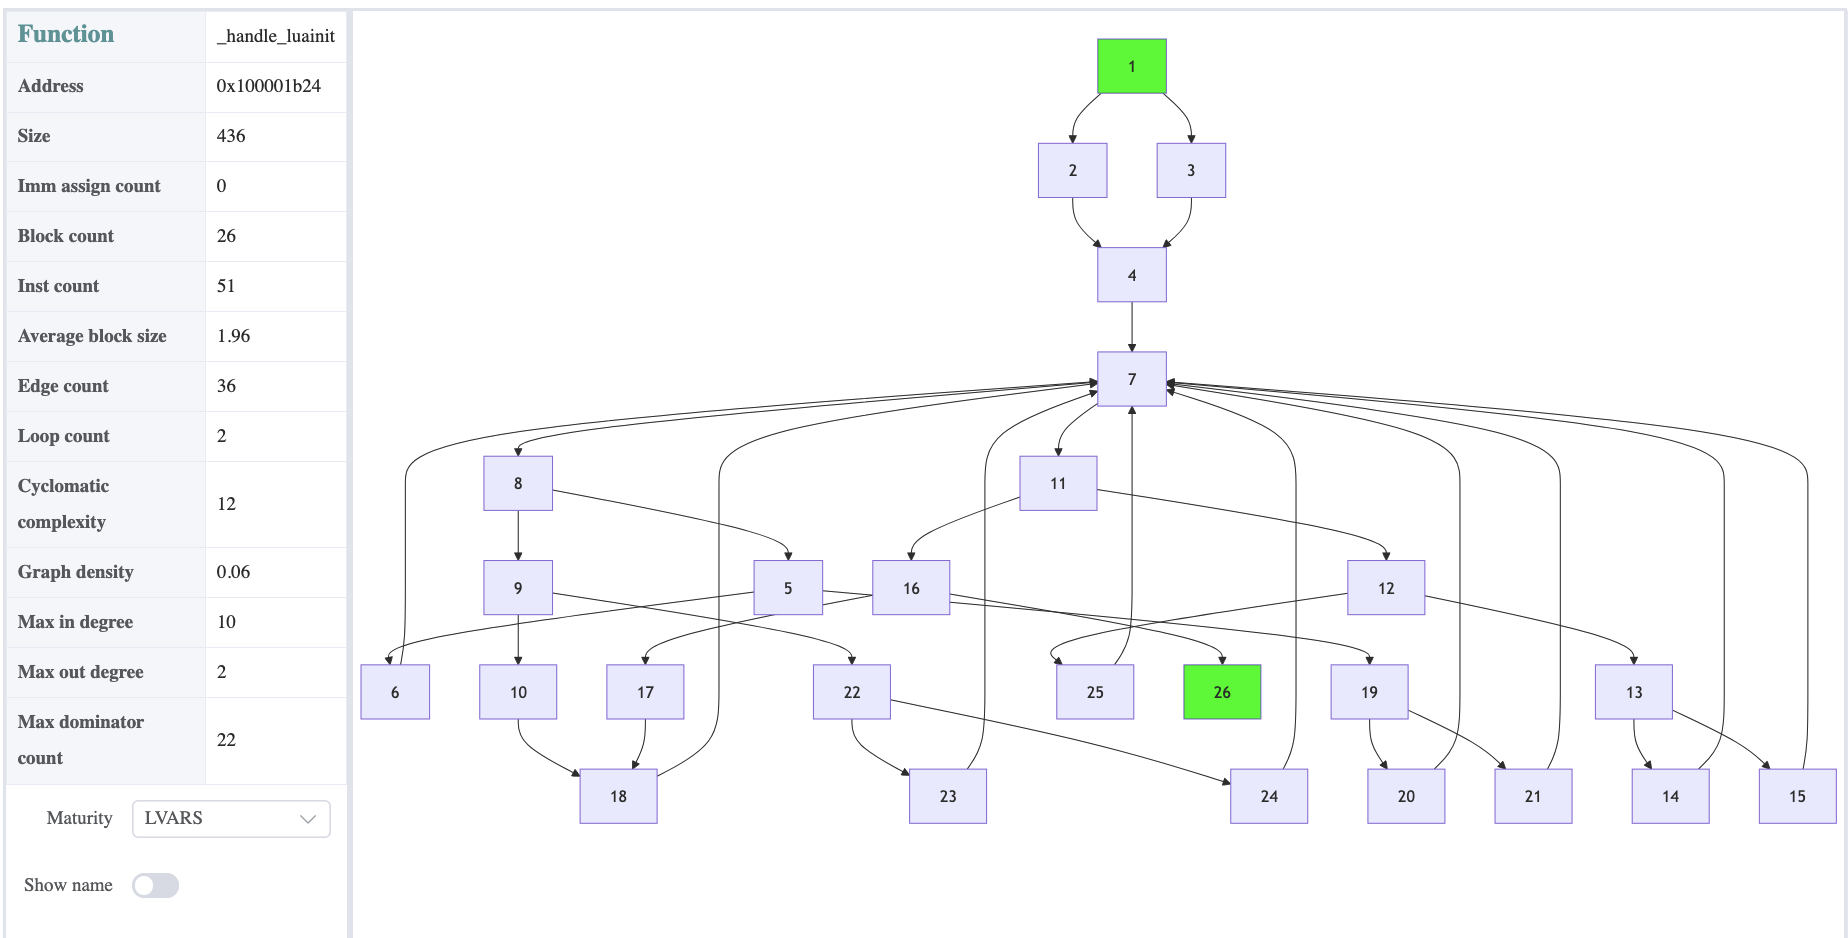
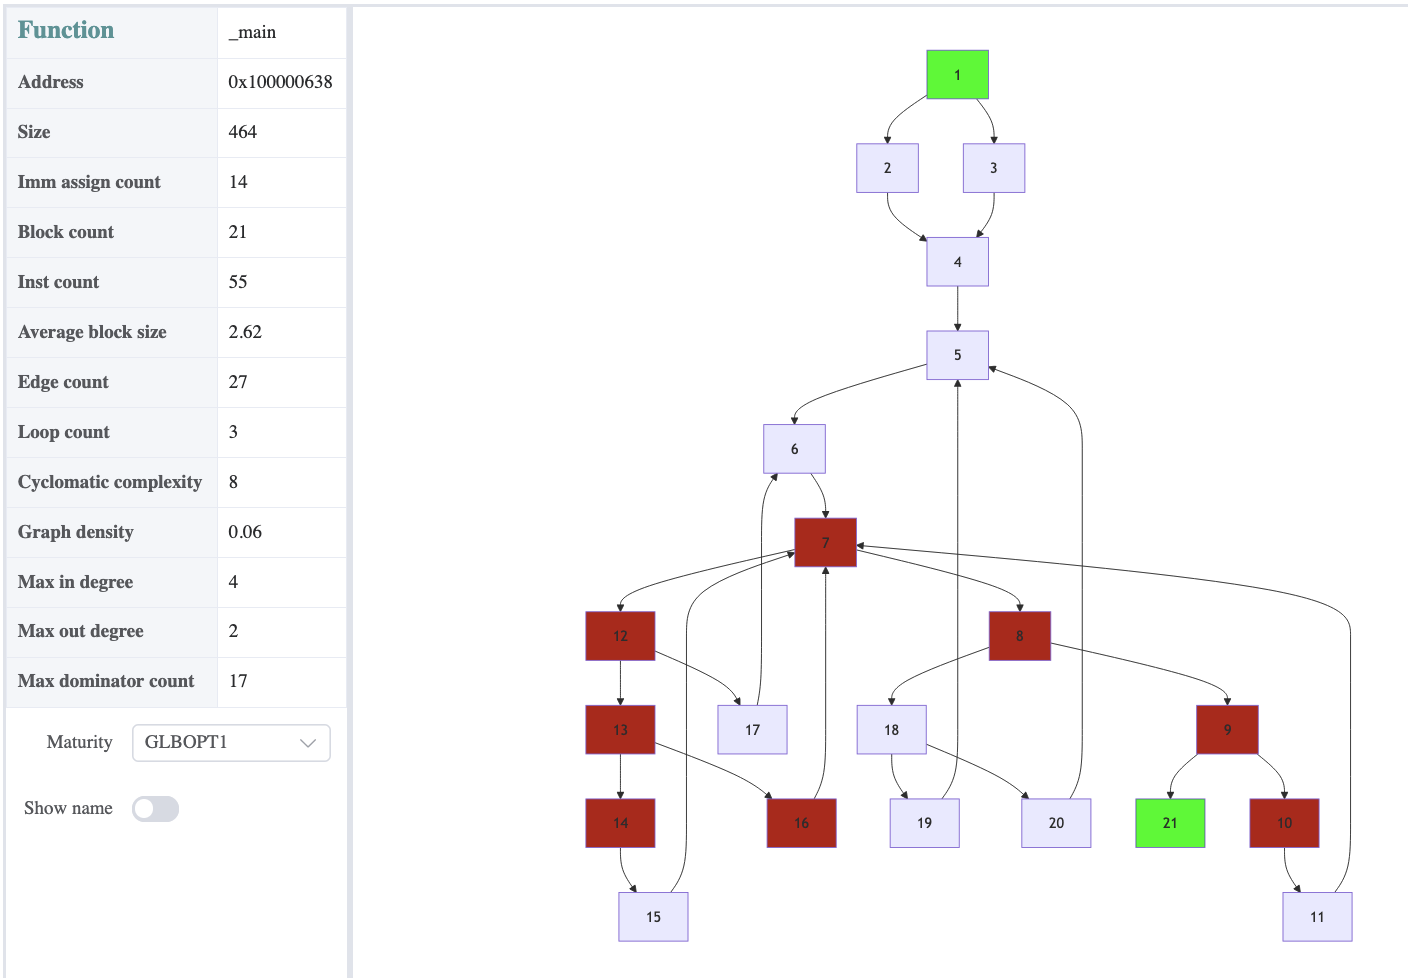
mark fla dispatch blks

diff --git a/cfgraph/main.js b/cfgraph/main.js
@@ -70,6 +70,7 @@ const app = createApp({
             const edges = cfg_data.value.edges;
             const eamap = cfg_data.value.eamap;
             const exits = cfg_data.value.exits;
+            const dispatch_lst = cfg_data.value.dispatch_lst || [];
             var key_range, entry_or_exits;
             if (cfg_data.value.maturity == 100) {
                 entry_or_exits = [0, ...exits];
@@ -80,18 +81,17 @@ const app = createApp({
             }
             var mmd = `%%{init: {"layout":"elk"}}%%\n`;
             mmd += "graph TD\n";
-            mmd += "    classDef EOE fill:#0f0\n";
+            mmd += "    classDef ENDPT fill:#00FF00\n";
+            mmd += "    classDef DISPATCH fill:#BC1717\n";
+            for (const key of entry_or_exits) {
+                mmd += "    " + key + ":::ENDPT\n";
+            }
+            for (const key of dispatch_lst) {
+                mmd += "    " + key + ":::DISPATCH\n";
+            }
             if (conf.value.use_name) {
                 for (var key = key_range[0]; key <= key_range[1]; key++) {
-                    if (entry_or_exits.includes(key)) {
-                        mmd += "    " + key + "[" + eamap[key] + "]:::EOE\n";
-                    } else {
-                        mmd += "    " + key + "[" + eamap[key] + "]\n";
-                    }
-                }
-            } else {
-                for (const key of entry_or_exits) {
-                    mmd += "    " + key + "[" + key + "]:::EOE\n";
+                    mmd += "    " + key + "[" + eamap[key] + "]\n";
                 }
             }
             edges.forEach(t => {

diff --git a/cfgraph.py b/cfgraph.py
@@ -193,6 +193,13 @@ def get_cfg_micro(ea, maturity):
         max_dom_count = max(len(v) for v in dom_set.values())
     else:
         max_dom_count = 0
+    dispatch_lst = list()
+    if maturity >= idaapi.MMAT_CALLS:
+        try:
+            from DeOllvm import find_all_dispatch_blks_for_mba
+            dispatch_lst = find_all_dispatch_blks_for_mba(mba)
+        except Exception as e:
+            pass
     jdata = {
         "status": 0,
         "data": {
@@ -210,6 +217,7 @@ def get_cfg_micro(ea, maturity):
             "max_indegree": max_indegree,
             "max_outdegree": max_outdegree,
             "max_dom_count": max_dom_count,
+            "dispatch_lst": dispatch_lst,
         }
     }
     return jdata
